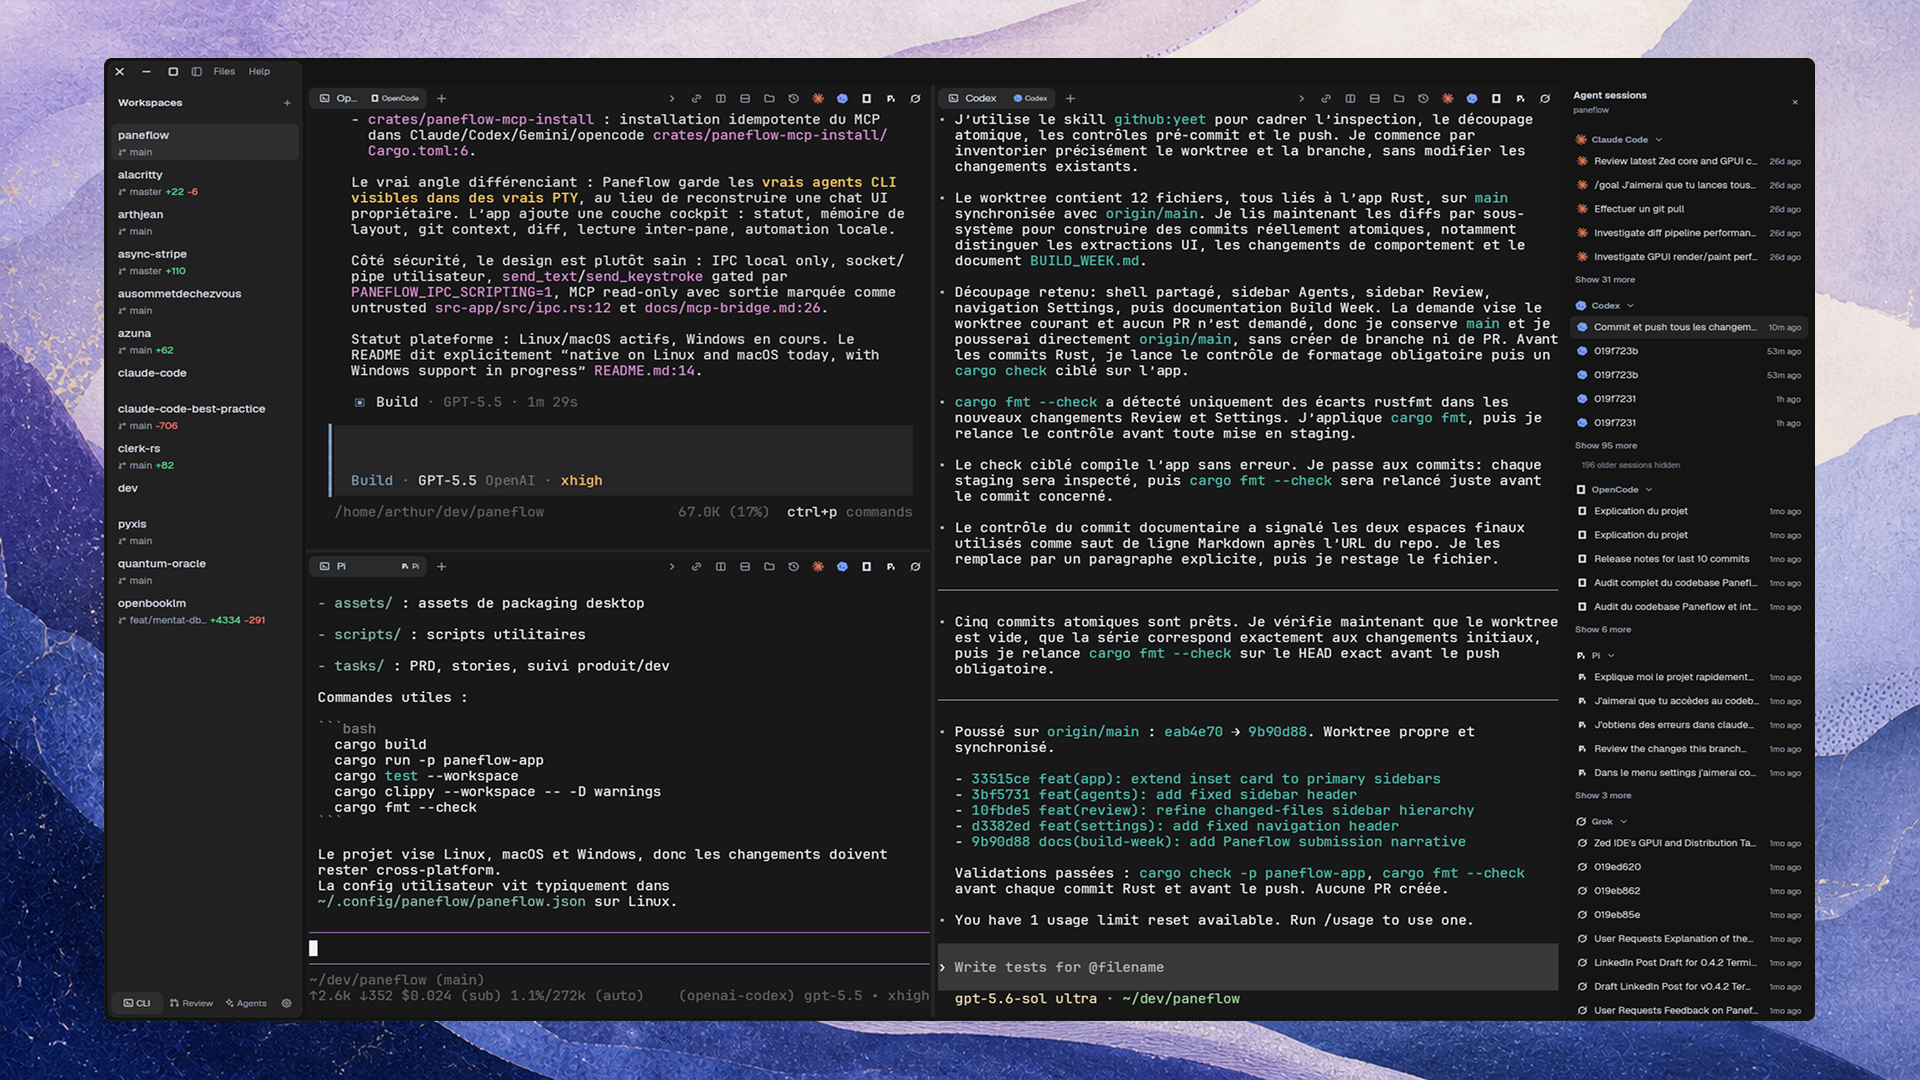
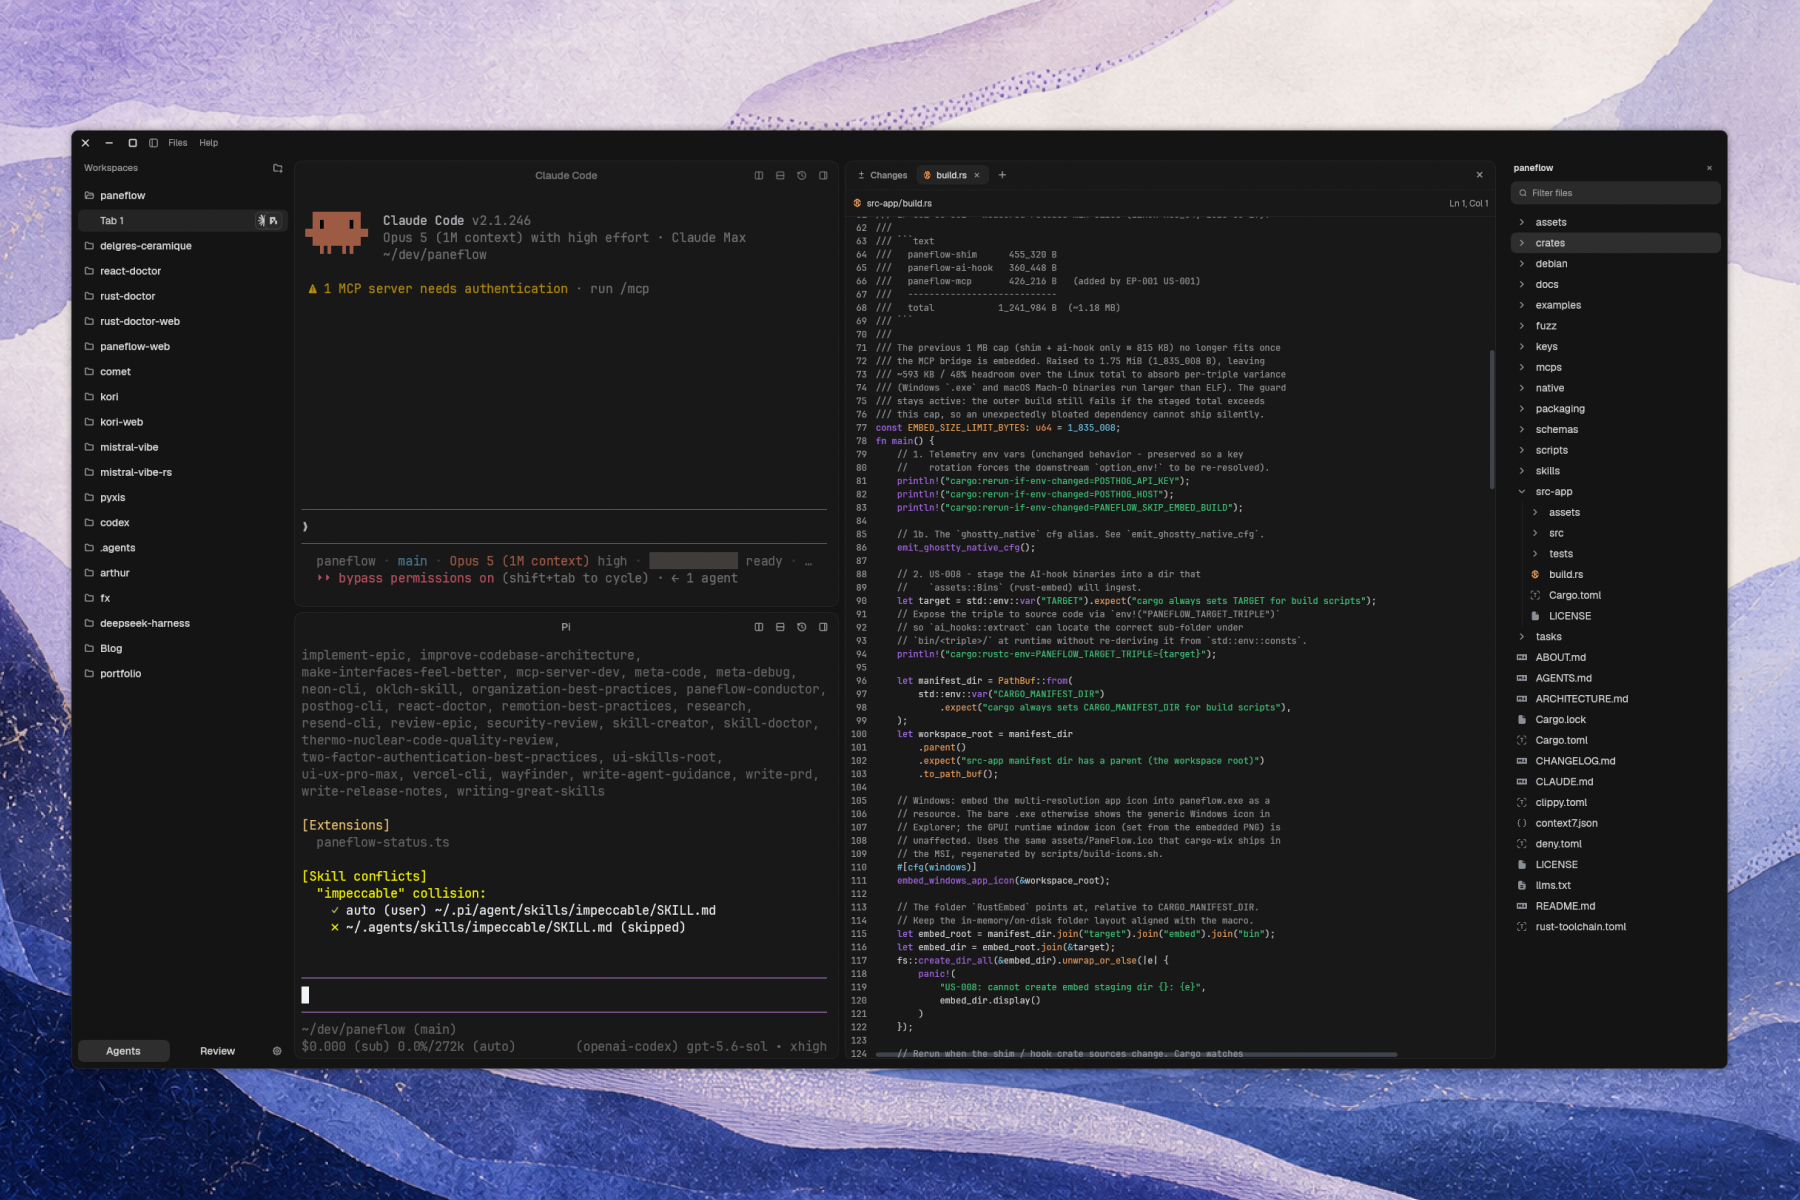
docs(readme): refresh the demo screenshot

diff --git a/README.md b/README.md
@@ -31,7 +31,7 @@ Everywhere else, take the build for your machine from the [latest release](https
 
 [Install docs →](https://paneflow.dev/docs/installation)
 
-<img alt="Several coding agents running in parallel panes, with live status for who is thinking, running, waiting, or done" src="./assets/images/demo.png" width="100%">
+<img alt="Two coding agents running in parallel panes, with the review dock open on a source file and the files sidebar alongside" src="./assets/images/demo.png" width="100%">
 
 ### 2. Install for agents
 
